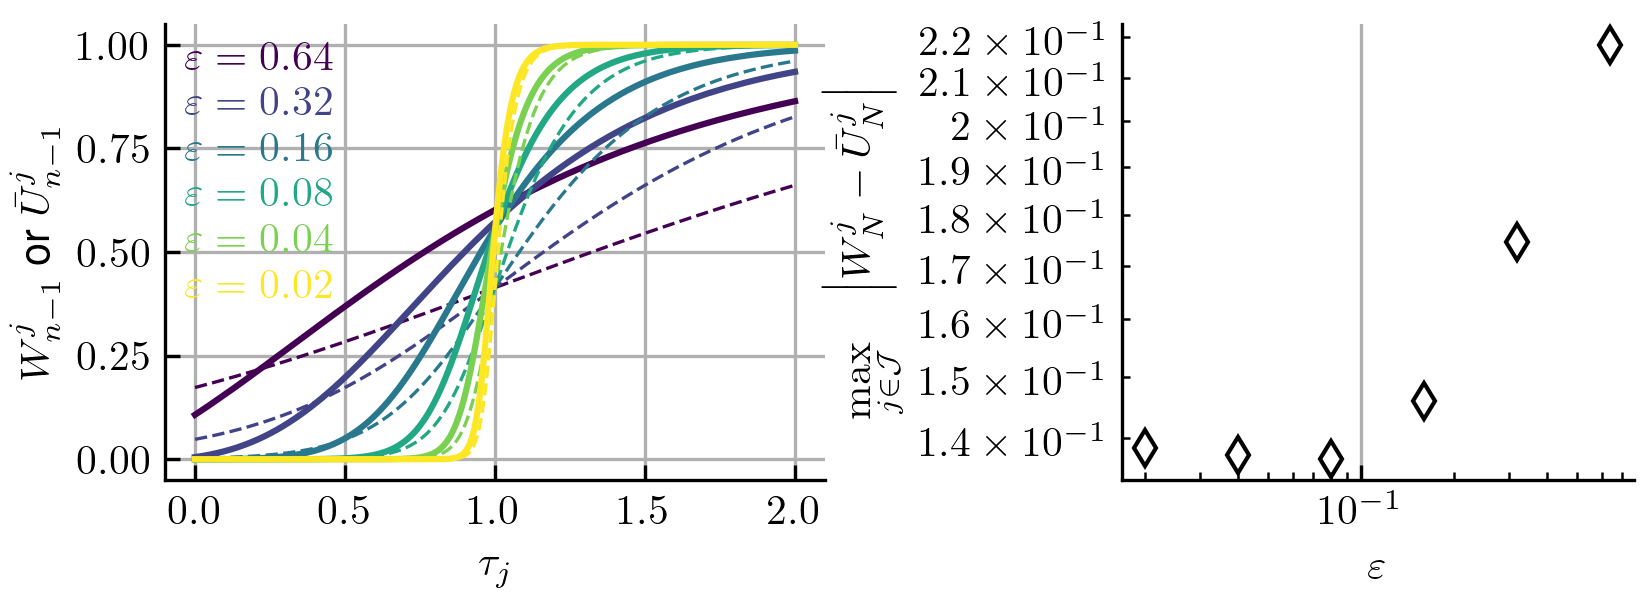
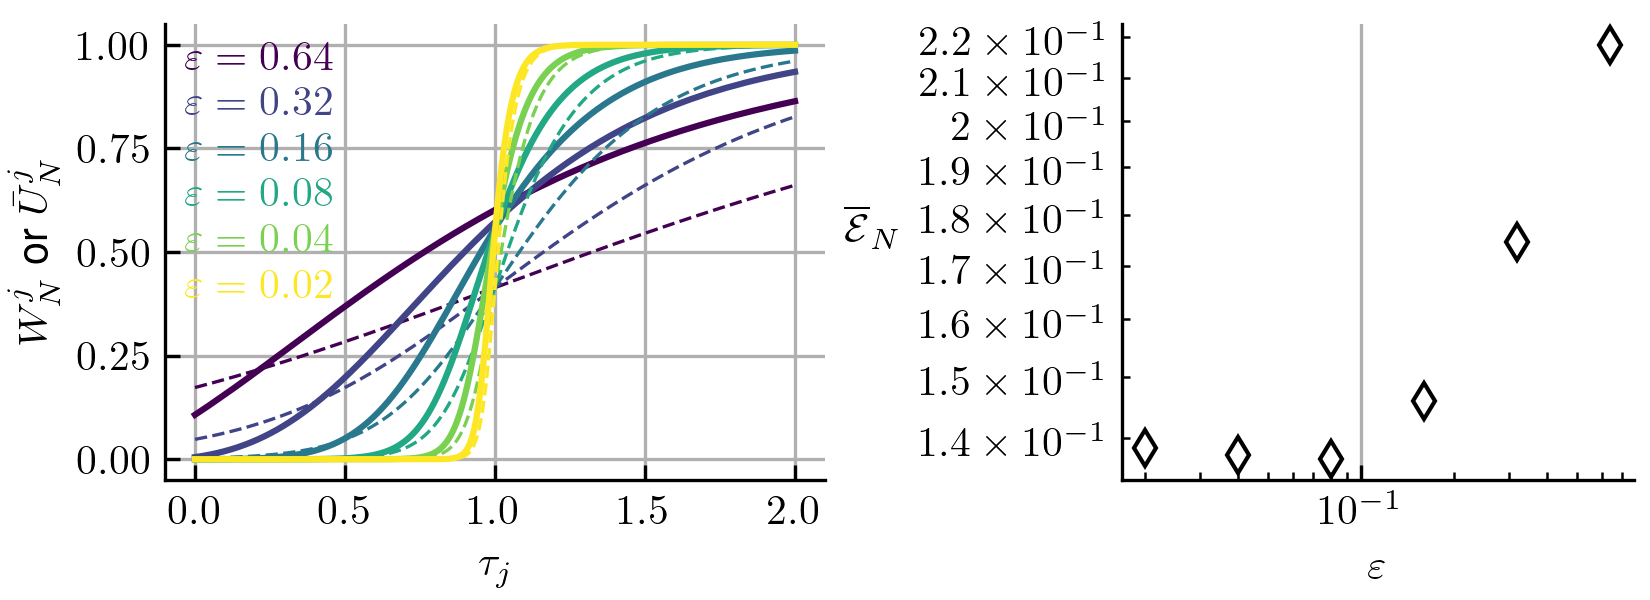
Update F3

diff --git a/plot_figure3.py b/plot_figure3.py
@@ -17,8 +17,8 @@ def get_u_TW_Langmuir(xi):
     xi[xi < -10] = -10
     xi[xi > 10] = 10
 
-    B = np.sqrt(2) - 1
-    A = B*np.exp(2*xi)
+    P = np.sqrt(2) - 1
+    A = P*np.exp(2*xi)
     return 1 + A - np.sqrt(A*(2 + A))
 
 
@@ -42,7 +42,7 @@ class TWConvergence(AsymptoticConvergence):
             ax.plot(taus, u_asympt, '--', color=self.colors[i], linewidth=0.8)
         
         ax.set_xlabel("$\\tau_{j}$")
-        ax.set_ylabel("$W_{n-1}^j$ or $\\bar{U}_{n-1}^j$")
+        ax.set_ylabel("$W_{N}^j$ or $\\bar{U}_{N}^j$")
 
 
 if __name__ == '__main__':
@@ -71,7 +71,7 @@ if __name__ == '__main__':
     
     plt.setp(axes[1].get_yticklabels(), visible=False)
     # axes[0].legend(facecolor='inherit', frameon=False)
-    axes[1].set_ylabel(r"$\max\limits_{j\in\mathcal{J}}\quad \left\lvert W_{N}^j - \bar{U}_{N}^j\right\rvert$")
+    axes[1].set_ylabel("$\\overline{\\mathcal{E}}_N$", rotation=0., labelpad=12)
     for i in range(tw.es.shape[0]):
         axes[0].annotate("$\\varepsilon = %3.2f$" % tw.es[i], 
         xy=(0.03, 0.4 + 0.1*i), xycoords="axes fraction", color=tw.colors[i])
